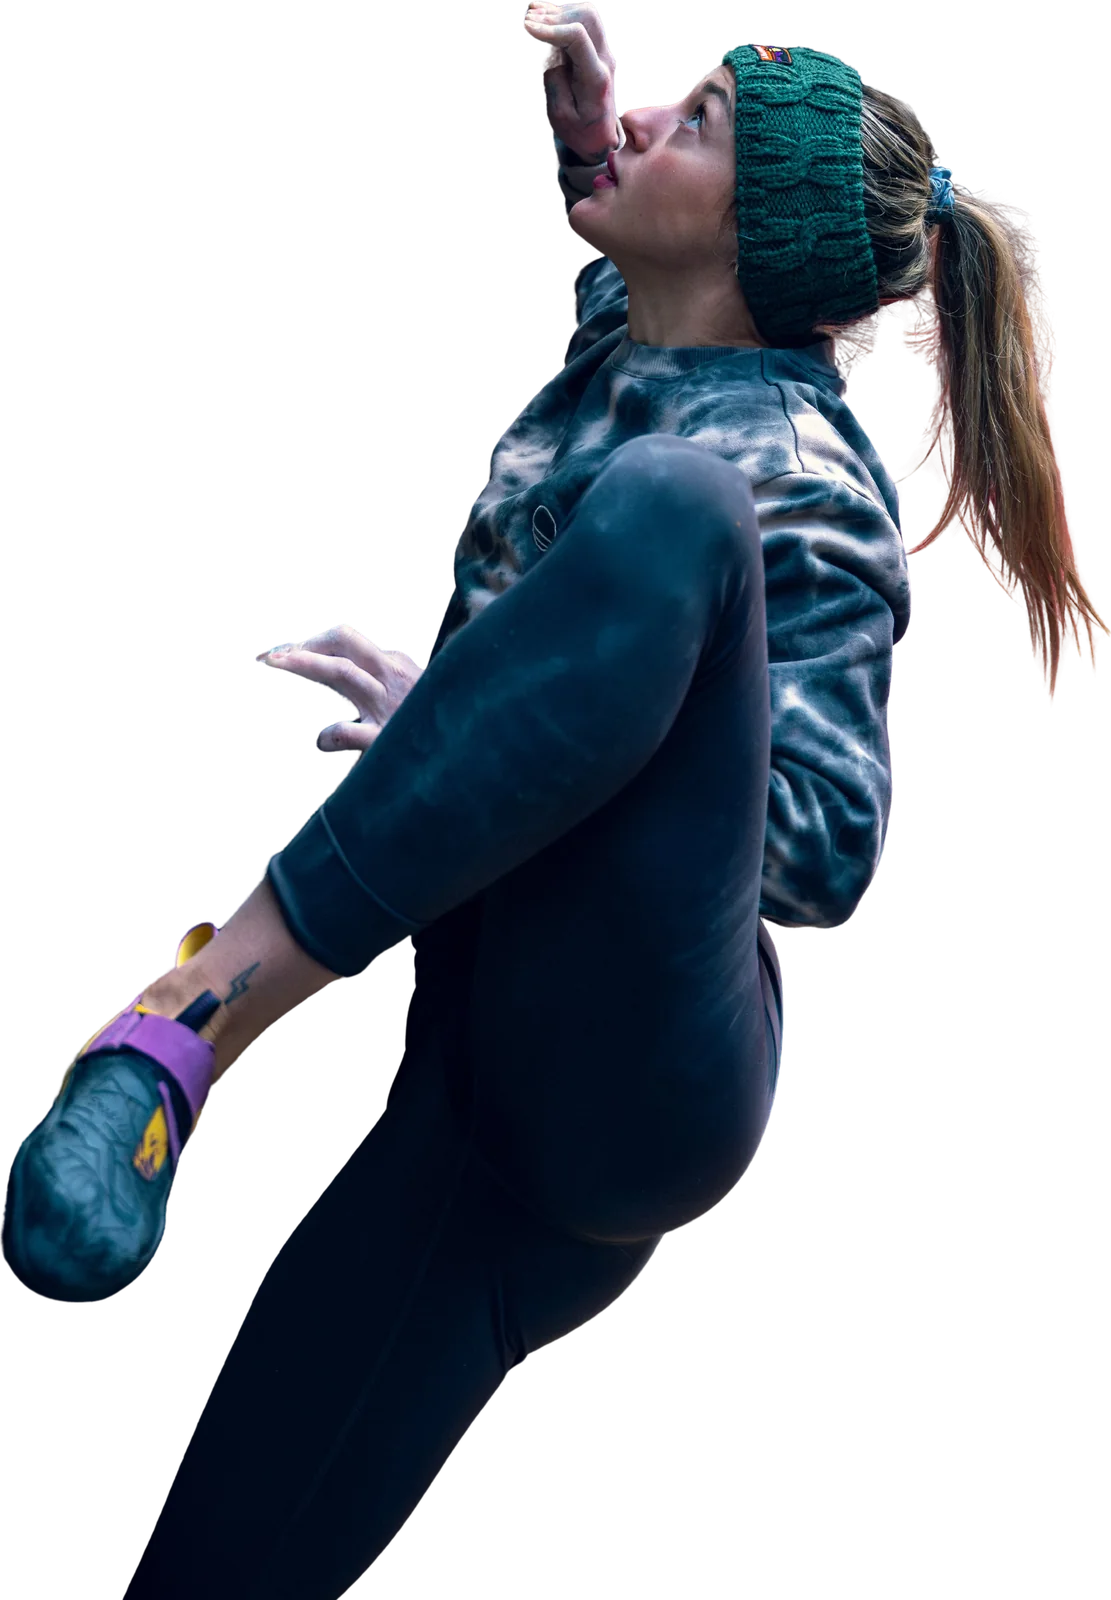
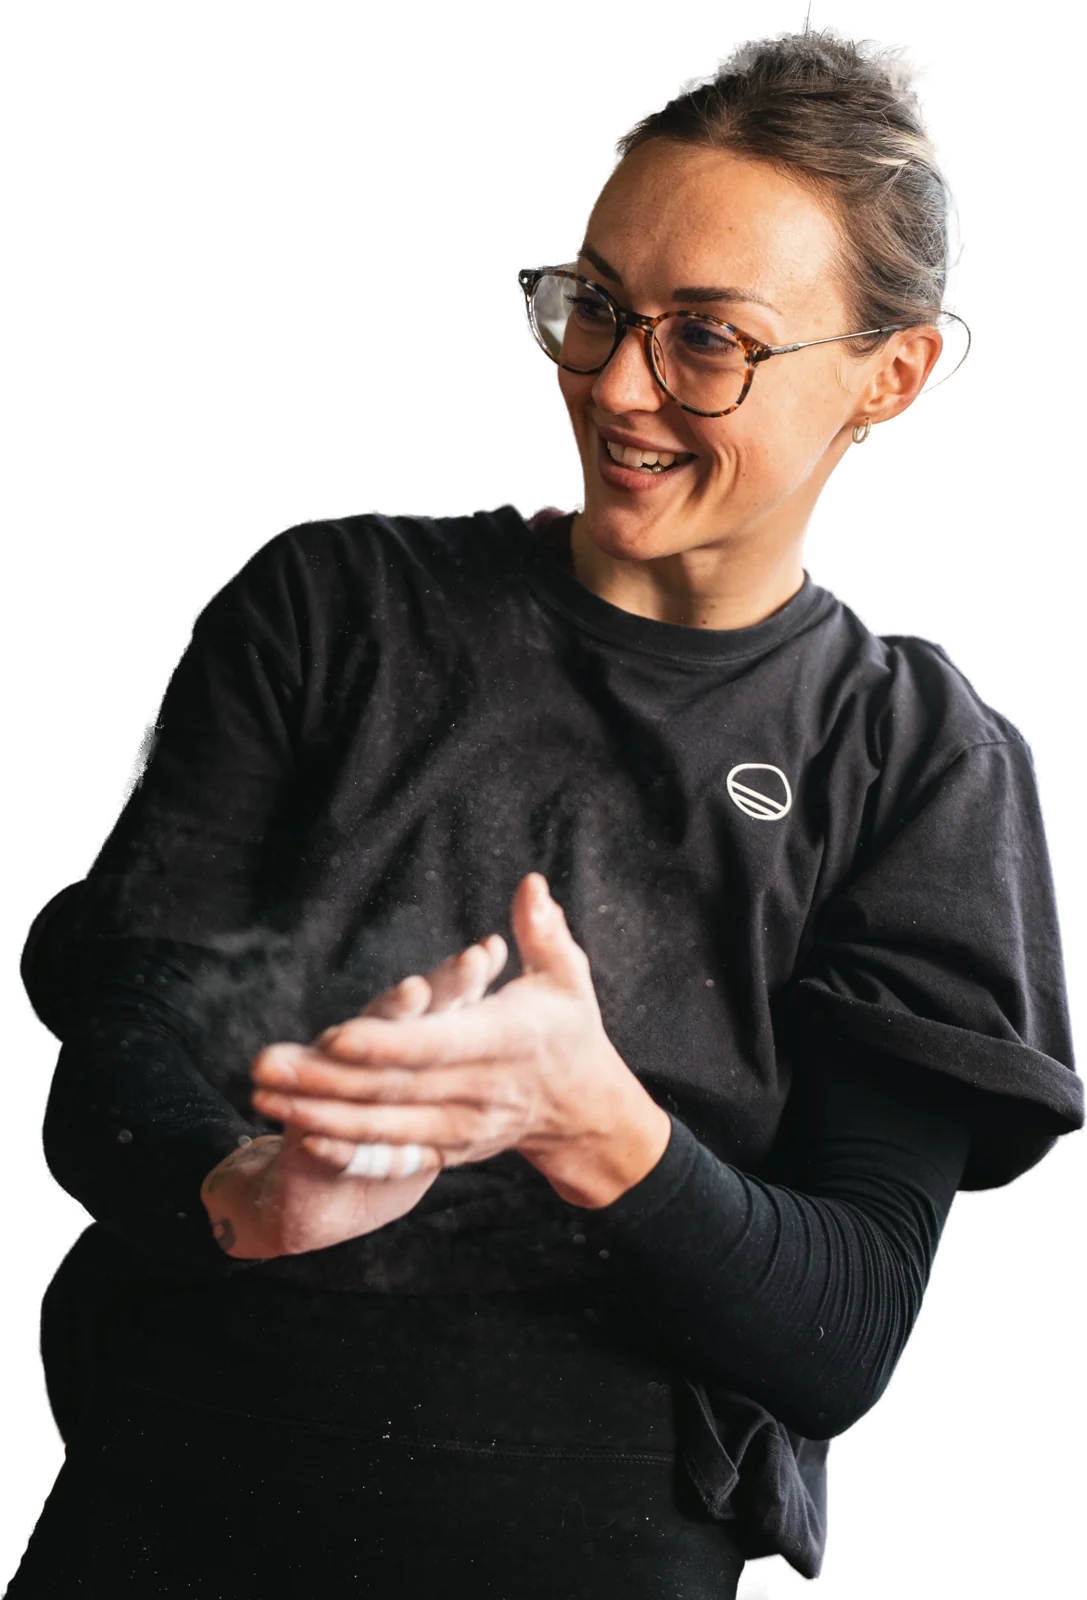
Keep hero figures inside the photo frame; new Jana cutout
- New Jana cutout from P1145077 (background removed)
- Stage clips its content, figures sit on the bottom edge, slides are flat
  so text/dust layering uses z-index (fixes clipped names on desktop)

diff --git a/web/style.css b/web/style.css
@@ -2251,18 +2251,6 @@ footer {
   }
 }
 
-/* ---------- Vrstvení ve 3D: text a přední prach musí být před postavou (ta má translateZ až 120px) ---------- */
-.cinematic .scene-copy {
-  transform: translateZ(140px) scale(.907);
-  transform-origin: 0 100%;
-}
-.scene-dust-front {
-  transform: translateZ(130px) scale(.913);
-}
-.cinematic .scene-caption {
-  transform: translateZ(140px) scale(.907);
-  transform-origin: 100% 100%;
-}
 @media (max-width: 600px) {
   .cinematic .scene-figure {
     left: 22%;
@@ -2281,4 +2269,25 @@ footer {
 .picture .number {
   text-transform: uppercase;
   text-shadow: 0 1px 8px #0009;
+}
+
+/* ---------- Postava zůstává uvnitř fotky: nic nepřesahuje rám ----------
+   Slide je plochý (bez 3D), pořadí vrstev řídí z-index: pozadí < prach < postava < text. */
+.depth-stage {
+  overflow: hidden;
+}
+.depth-slide {
+  transform-style: flat;
+}
+.cinematic .scene-figure {
+  top: 5%;
+  bottom: 0;
+}
+@media (max-width: 600px) {
+  .cinematic .scene-figure {
+    top: 8%;
+    bottom: 0;
+    left: 18%;
+    right: -6%;
+  }
 }
